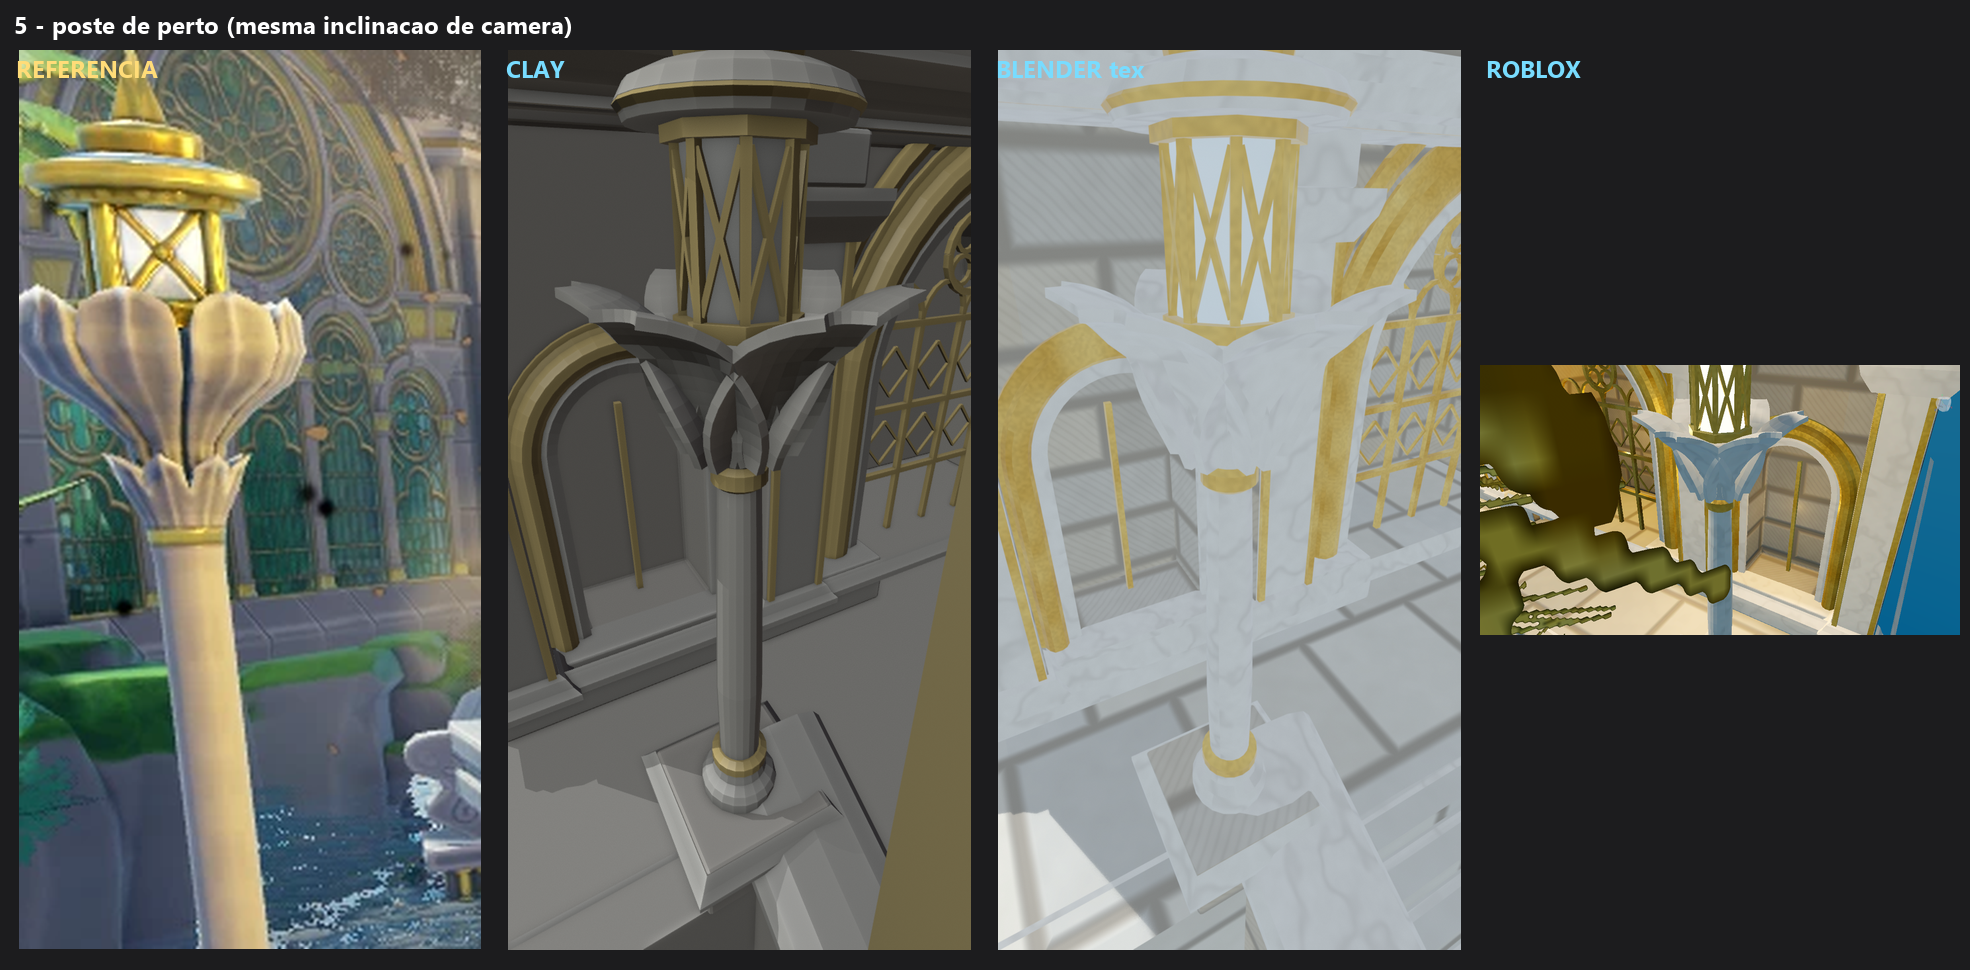
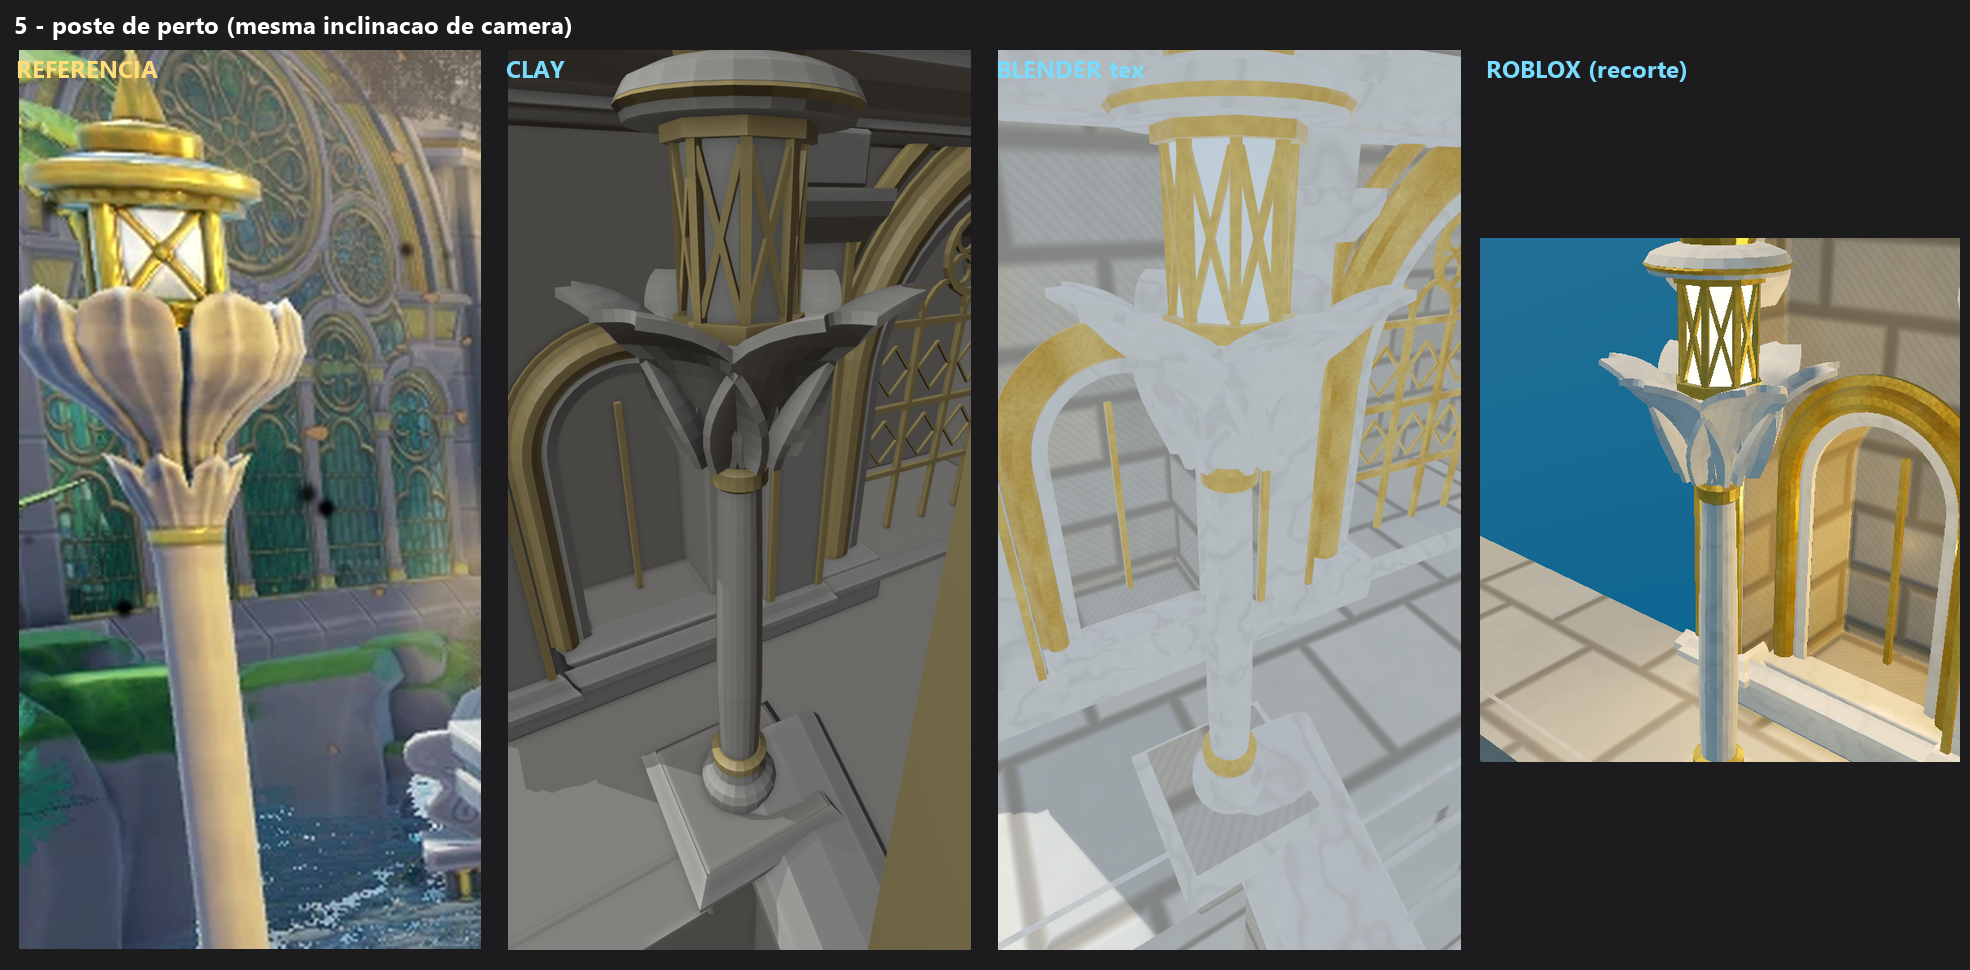
Amostra: pranchas A1-A9 finais (poste recapturado sem oclusao)

Changed region(s): [[0.7431, 0.2474, 1.0, 0.8041], [0.8051, 0.0619, 0.867, 0.0928]]

diff --git a/lobby_area/refs/match/make_sheets_amostra.py b/lobby_area/refs/match/make_sheets_amostra.py
@@ -27,8 +27,8 @@ sheet('A1_referencia.png', '1 - referencia original (Anime Expeditions, vista fr
 sheet('A2_clay_base.png', '2 - clay da base da torre (Workbench, sem materiais) na camera correspondida', [(ref, 'REFERENCIA'), (opt(P('trecho_04_clay.png')), 'CLAY (camera match: FOV 102 h, avatar 5 studs, 12,5 atras)')])
 sheet('A3_sobreposicao.png', '3 - sobreposicao 50% e diferenca de silhueta (vermelho = arestas da referencia, ciano = contorno do modelo)', [(opt(P('trecho_04_overlay50.png')), 'SOBREPOSICAO 50%'), (opt(P('trecho_04_diff.png')), 'DIFERENCA')])
 sheet('A4_portal.png', '4 - portal de perto', [(Image.open(Rf('ref_tower_base.png')), 'REFERENCIA'), (opt(P('portal_03_tex.png')), 'BLENDER (texturizado, sem bloom)'), (opt(P('rb_portal.png')), 'ROBLOX')], W=760, H=560)
-sheet('A5_poste.png', '5 - poste de perto (mesma inclinacao de camera)', [(Image.open(Rf('ref_lamp_left.png')), 'REFERENCIA'), (opt(P('poste_05_clay.png')), 'CLAY'), (opt(P('poste_05_tex.png')), 'BLENDER tex'), (opt(P('rb_poste.png')), 'ROBLOX')], W=480, H=900)
+sheet('A5_poste.png', '5 - poste de perto (mesma inclinacao de camera)', [(Image.open(Rf('ref_lamp_left.png')), 'REFERENCIA'), (opt(P('poste_05_clay.png')), 'CLAY'), (opt(P('poste_05_tex.png')), 'BLENDER tex'), (opt(P('rb_poste.png')).crop((280, 0, 870, 645)) if os.path.exists(P('rb_poste.png')) else opt(P('rb_poste.png')), 'ROBLOX (recorte)')], W=480, H=900)
 sheet('A6_arvores.png', '6 - arvores douradas de perto', [(ref.crop((180, 150, 560, 500)), 'REFERENCIA'), (opt(P('arvores_02_tex.png')), 'BLENDER tex'), (opt(P('rb_arvores.png')), 'ROBLOX')], W=700, H=700)
-sheet('A7_piso_agua.png', '7 - piso e margem de agua', [(Image.open(Rf('ref_stairs_edge.png')), 'REFERENCIA (piso)'), (opt(P('rb_piso_agua.png')), 'ROBLOX piso'), (Image.open(Rf('ref_floor_planter.png')), 'REFERENCIA (margem)'), (opt(P('rb_agua.png')), 'ROBLOX margem (lado)'), (opt(P('rb_agua_cima.png')), 'ROBLOX margem (cima)')], W=560, H=420)
+sheet('A7_piso_agua.png', '7 - piso e margem de agua', [(ref.crop((150, 380, 1250, 580)), 'REFERENCIA (piso)'), (opt(P('rb_piso_agua.png')), 'ROBLOX piso'), (Image.open(Rf('ref_floor_planter.png')), 'REFERENCIA (margem)'), (opt(P('rb_agua.png')), 'ROBLOX margem (lado)'), (opt(P('rb_agua_cima.png')), 'ROBLOX margem (cima)')], W=560, H=420)
 sheet('A8_roblox.png', '8 - resultado importado no Roblox (mesma camera da referencia)', [(ref, 'REFERENCIA'), (opt(P('rb_geral.png')), 'ROBLOX (Studio, sem HUD)')])
 sheet('A9_jogador.png', '9 - altura normal da camera do jogador (Play, HUD oculta)', [(ref, 'REFERENCIA'), (opt(P('rb_jogador.png')), 'ROBLOX (Play)')])
